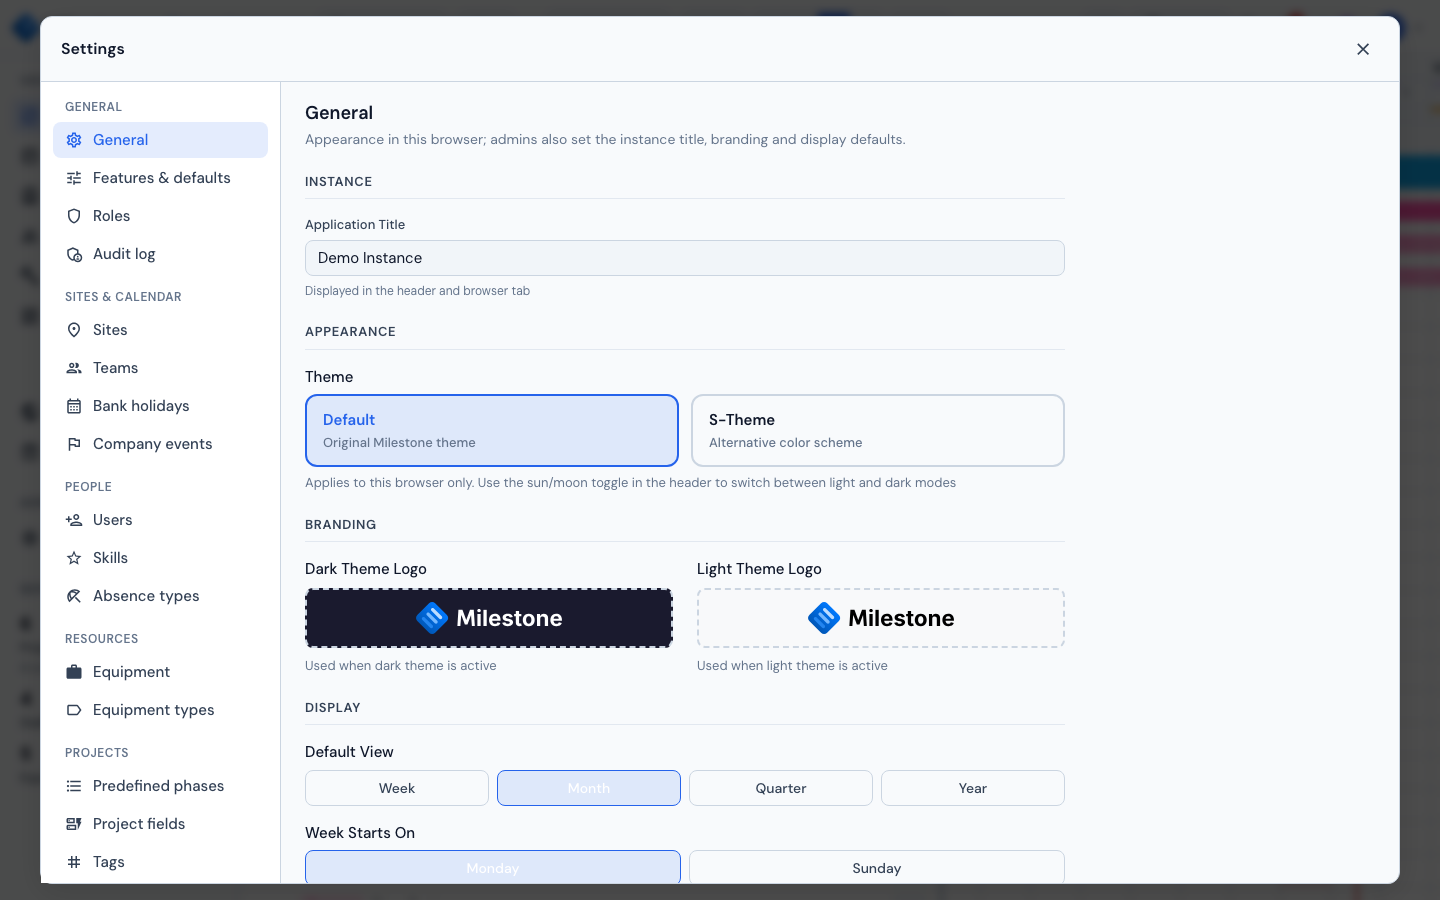
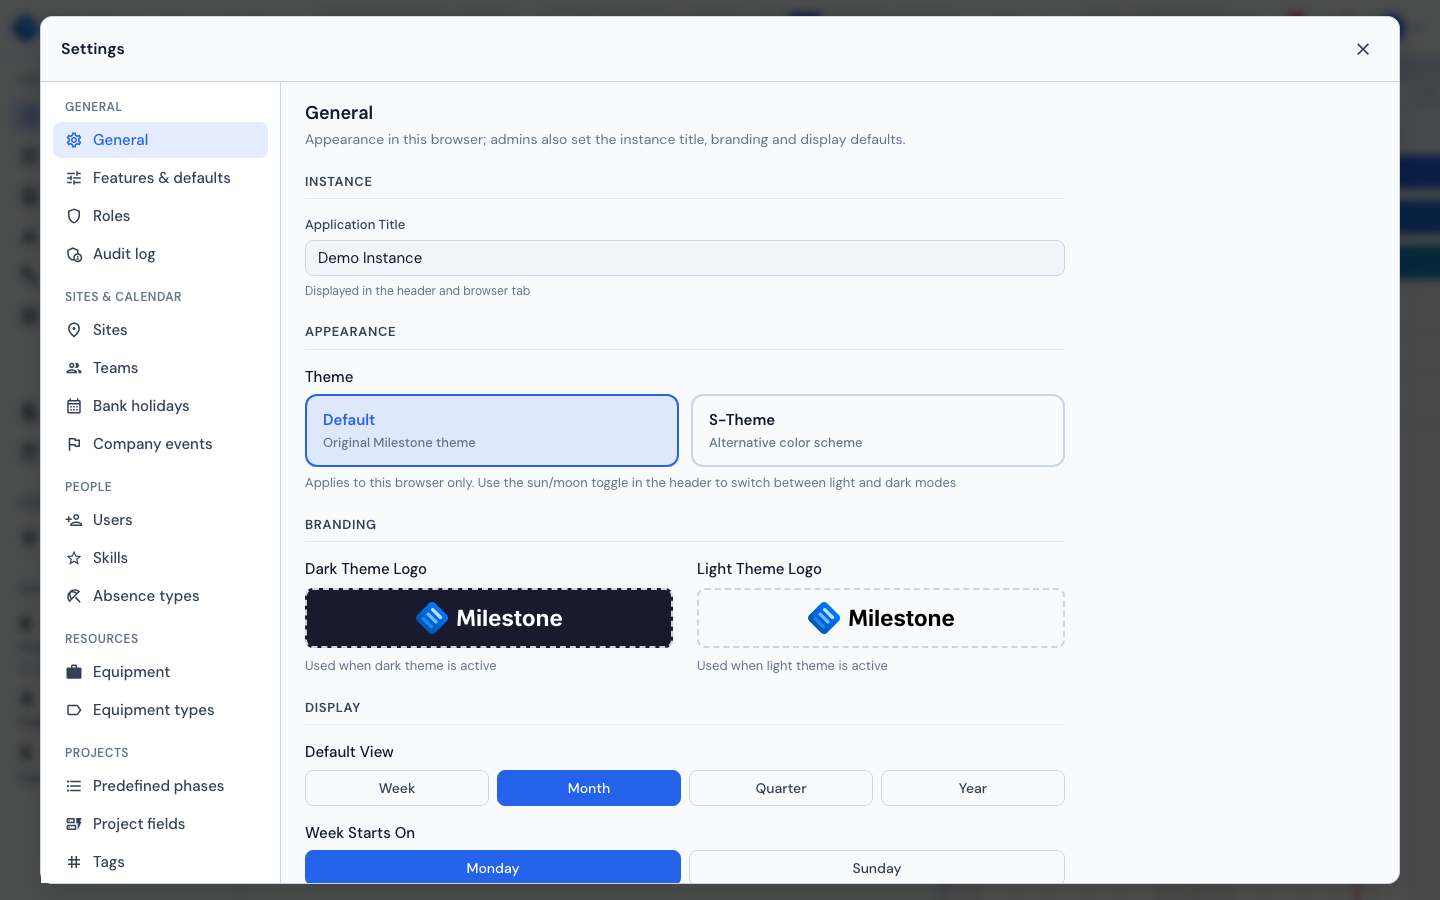
Make the selected General settings toggles readable
The selected Default View and Week Starts On options drew a fixed white
label on the pale --accent-blue-alpha tint, so in the light themes the
chosen option was nearly invisible. It now uses the header zoom buttons'
pair: a solid --accent-blue fill with --text-on-accent text, defined in
every theme. Dropping the hex lowers the file's raw-colour ratchet to 7.
The two Settings screenshots are re-shot to show the readable state.

Changed region(s): [[0.1875, 0.9333, 0.4688, 0.9956], [0.3438, 0.84, 0.4688, 0.9022], [0.9688, 0.2178, 1.0, 0.3111]]

diff --git a/frontend/src/components/settings/__tests__/GeneralPanel.test.tsx b/frontend/src/components/settings/__tests__/GeneralPanel.test.tsx
@@ -4,9 +4,12 @@
  * Save and the unsaved-changes report to the hub.
  */
 
+import { readFileSync } from 'node:fs';
+import { join } from 'node:path';
 import { describe, it, expect, vi, beforeEach } from 'vitest';
 import { render, screen, fireEvent, act } from '@testing-library/react';
 import { GeneralPanel } from '../panels/GeneralPanel';
+import styles from '../panels/GeneralPanel.module.css';
 import { useAppStore } from '@/stores/appStore';
 import type { User, UserRole } from '@/types';
 import { asSignedIn } from '@/test/permissionFixtures';
@@ -92,6 +95,35 @@ describe('GeneralPanel', () => {
     await act(async () => finish({}));
     expect(await screen.findByText('Settings saved successfully')).toBeInTheDocument();
     expect(updateSetting).toHaveBeenCalledTimes(1);
+  });
+
+  describe('Default View and Week Starts On toggles', () => {
+    it('marks the selected option and moves the mark on click', async () => {
+      setRole('admin');
+      render(<GeneralPanel onDirtyChange={vi.fn()} />);
+      await screen.findByLabelText('Application Title');
+
+      expect(screen.getByRole('button', { name: 'Month' })).toHaveClass(styles.selected);
+      expect(screen.getByRole('button', { name: 'Year' })).not.toHaveClass(styles.selected);
+      expect(screen.getByRole('button', { name: 'Monday' })).toHaveClass(styles.selected);
+
+      fireEvent.click(screen.getByRole('button', { name: 'Year' }));
+      fireEvent.click(screen.getByRole('button', { name: 'Sunday' }));
+      expect(screen.getByRole('button', { name: 'Year' })).toHaveClass(styles.selected);
+      expect(screen.getByRole('button', { name: 'Month' })).not.toHaveClass(styles.selected);
+      expect(screen.getByRole('button', { name: 'Sunday' })).toHaveClass(styles.selected);
+      expect(screen.getByRole('button', { name: 'Monday' })).not.toHaveClass(styles.selected);
+    });
+
+    it('fills the selected option with the accent and its on-accent text (readable in every theme)', () => {
+      // jsdom cannot compute colours, so the rule itself is the contract: the
+      // selected text was a fixed white on the pale --accent-blue-alpha tint,
+      // near-invisible in the light themes.
+      const css = readFileSync(join(__dirname, '..', 'panels', 'GeneralPanel.module.css'), 'utf8');
+      const rule = /\.optionButton\.selected\s*\{([^}]*)\}/.exec(css)?.[1] ?? '';
+      expect(rule).toMatch(/background:\s*var\(--accent-blue\);/);
+      expect(rule).toMatch(/color:\s*var\(--text-on-accent\);/);
+    });
   });
 
   describe('audit log retention (Data management)', () => {

diff --git a/frontend/src/components/settings/panels/GeneralPanel.module.css b/frontend/src/components/settings/panels/GeneralPanel.module.css
@@ -78,9 +78,9 @@
 }
 
 .optionButton.selected {
-  background: var(--accent-blue-alpha);
-  border-color: var(--accent-primary);
-  color: #ffffff;
+  background: var(--accent-blue);
+  border-color: var(--accent-blue);
+  color: var(--text-on-accent);
 }
 
 /* Theme Options */

diff --git a/CHANGELOG.md b/CHANGELOG.md
@@ -12,6 +12,9 @@ and this project adheres to [Semantic Versioning](https://semver.org/).
 - The Audit log can be filtered by search text, category, outcome, action, actor, IP address and dates, shows an entry's reason, changes and context in a detail dialog, and exports the filtered list to CSV (up to 50 000 rows; the export is itself recorded). Every entry is also written as a JSON line on the `milestone.audit` logger for log collectors.
 - Settings → General → Audit log retention: how long audit entries are kept (default 365 days, 0 keeps them indefinitely, at most 3 650).
 
+### Fixed
+- Settings → General: the selected Default view and Week starts on options are readable again.
+
 ## [2.3.0] - 2026-10-30
 
 ### Added
